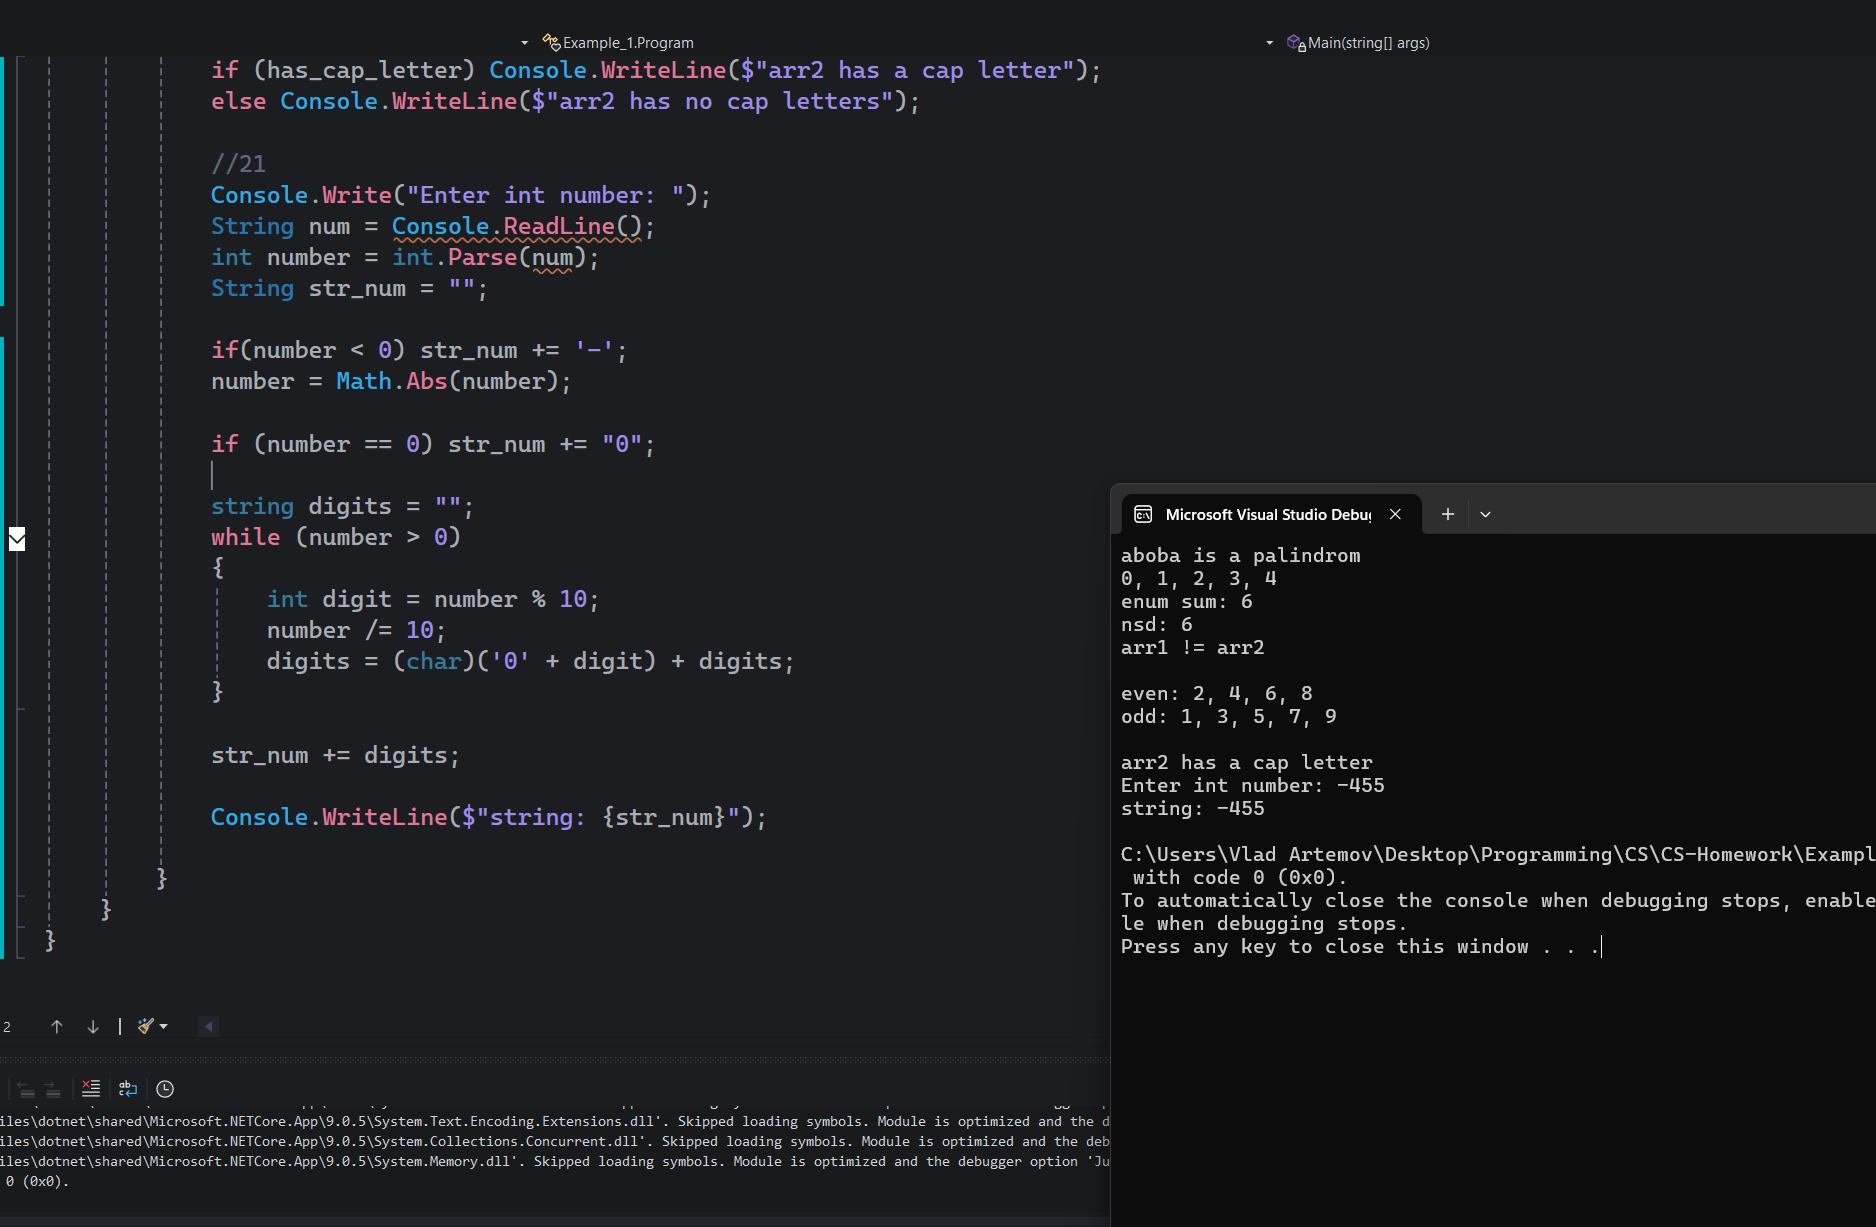
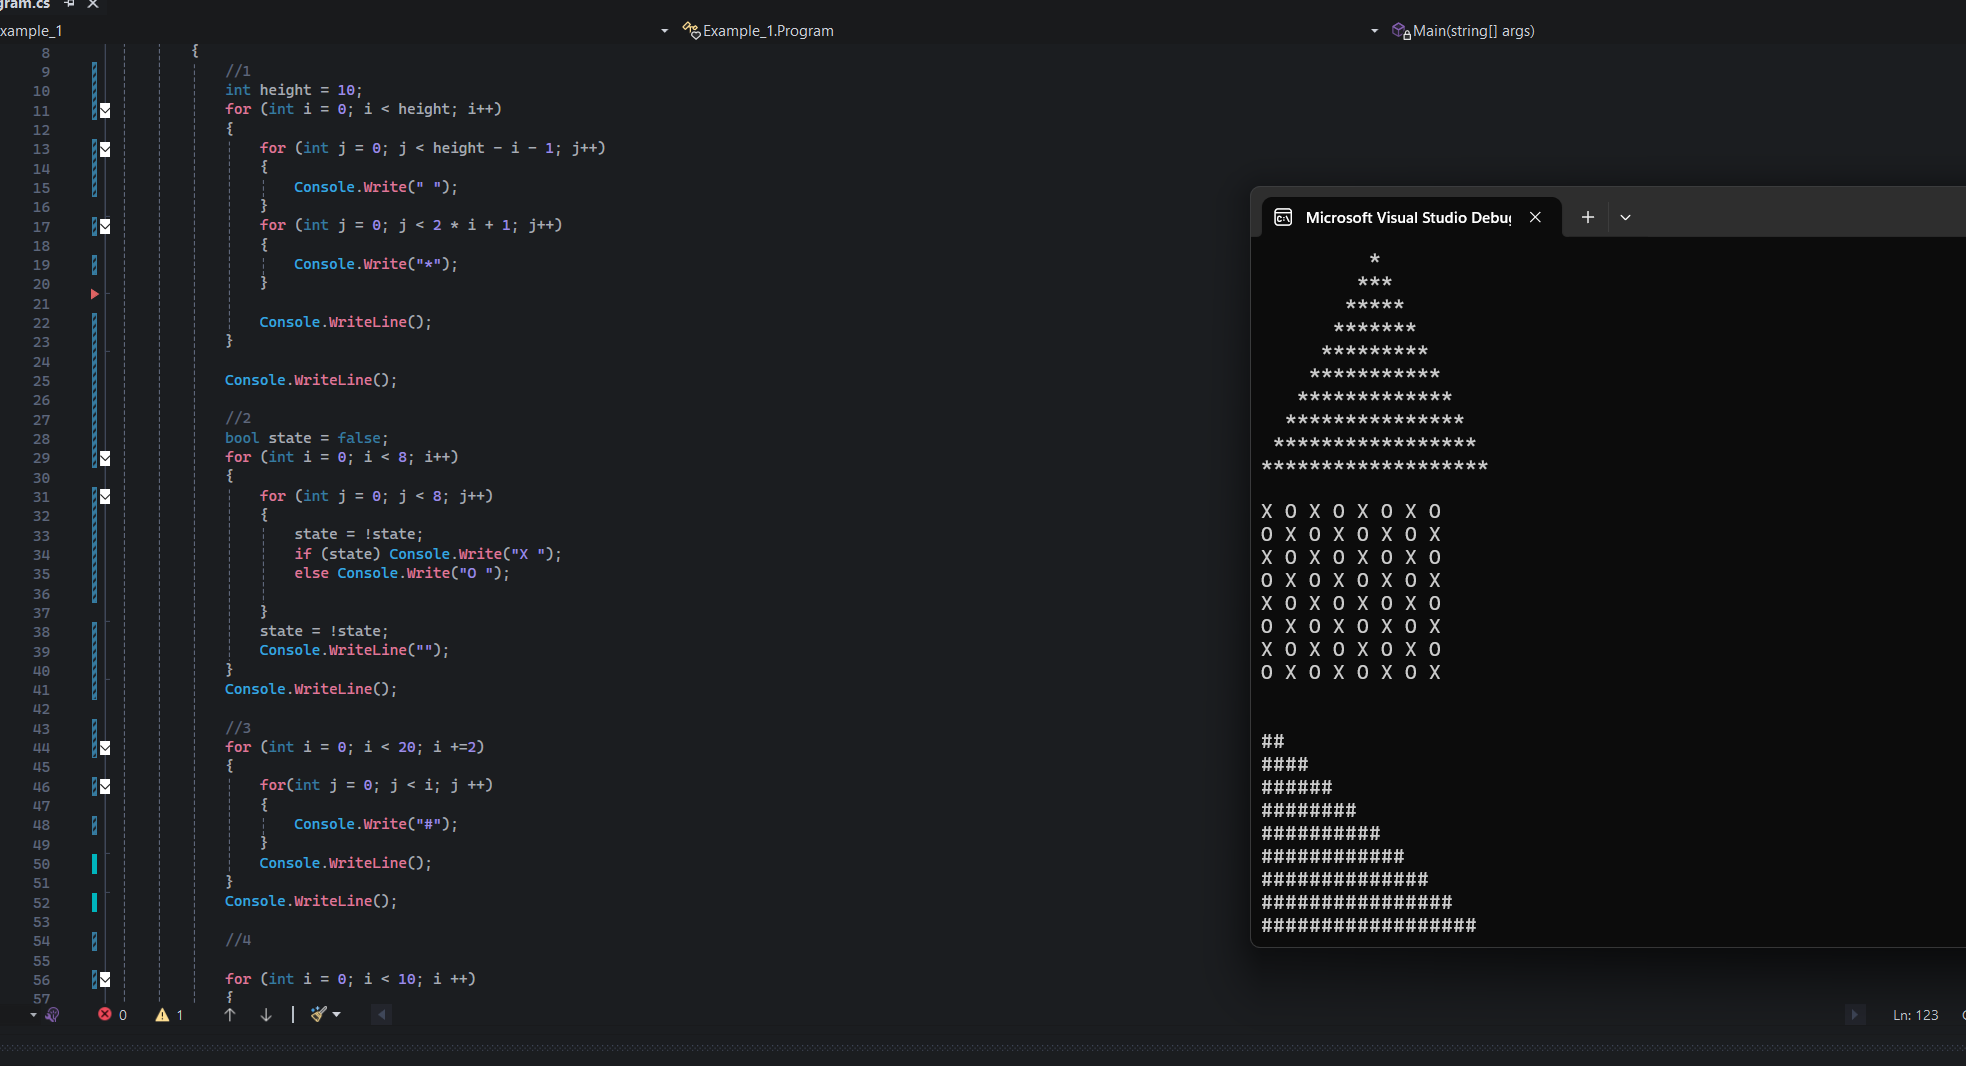
dthtdhxdftjftjfty

diff --git a/Example_1/Program.cs b/Example_1/Program.cs
@@ -1,118 +1,137 @@
 using System;
-using System.Linq;
 
 namespace Example_1
 {
-    enum EnUm
-    {
-        a = 1,
-        b = 2,
-        c = 3
-    }
     internal class Program
     {
         static void Main(string[] args)
         {
-            //14
-            String str = "aboba";
-            bool palindrom = true;
-            for (int i = 0; i < str.Length / 2; i++)
+            //1
+            int height = 10;
+            for (int i = 0; i < height; i++)
             {
-                if (str[i] != str[str.Length - i - 1])
-                    palindrom = false;
-            }
-            if (palindrom) Console.WriteLine($"{str} is a palindrom");
-            else Console.WriteLine($"{str} is NOT a palindrom");
-
-            //15
-            int[] arr = { 0, 1, 1, 2, 2, 3, 3, 4, 4 };
-            List<int> numbers = new List<int> { }; // вектор для c#
-            for (int i = 0; i < arr.Length; i++)
-            {
-                if (!numbers.Contains(arr[i]))
-                    numbers.Add(arr[i]);
-            }
-            arr = numbers.ToArray();
-            Console.WriteLine(string.Join(", ", arr));
-
-            //16
-            int sum = 0;
-            foreach (int val in Enum.GetValues(typeof(EnUm)))
-            {
-                sum += val;
-            }
-            Console.WriteLine($"enum sum: {sum}");
-            //17
-            int a = 6;
-            int b = 66;
-            int nsd = 0;
-
-            for (int i = Math.Min(a, b); i > 0; i--)
-            {
-                if (a % i == 0 && b % i == 0)
+                for (int j = 0; j < height - i - 1; j++)
                 {
-                    nsd = i;
-                    break;
+                    Console.Write(" ");
                 }
+                for (int j = 0; j < 2 * i + 1; j++)
+                {
+                    Console.Write("*");
+                }
+
+                Console.WriteLine();
             }
 
-            Console.WriteLine($"nsd: {nsd}");
-
-            //18
-            int[] arr1 = { 0, 1, 2, 3 };
-            int[] arr2 = { 0, 1, 2, -1 };
-            if(arr1.SequenceEqual(arr2)) Console.WriteLine($"arr1 == arr2");
-            else Console.WriteLine($"arr1 != arr2");
-
-            //19
-            int[] evenodd = {1, 2, 3, 4, 5, 6, 7, 8, 9 };
-            List<int> even = new List<int> { };
-            List<int> odd = new List<int> { };
-            for(int i = 0; i < evenodd.Length; i ++)
-            {
-                if (evenodd[i] % 2 == 0) even.Add(evenodd[i]);
-                else odd.Add(evenodd[i]);
-            }
-            Console.WriteLine();
-            Console.WriteLine($"even: {string.Join(", ", even)}");
-            Console.WriteLine($"odd: {string.Join(", ", odd)}");
             Console.WriteLine();
 
-            //20
-            String str2 = "hello this string has This word";
-            bool has_cap_letter = false;
-            for(int i = 0; i < str2.Length; i ++) {
-                if (char.IsUpper(str2[i]) && (i == 0 || str2[i - 1] == ' '))
+            //2
+            bool state = false;
+            for (int i = 0; i < 8; i++)
+            {
+                for (int j = 0; j < 8; j++)
                 {
-                    has_cap_letter = true;
-                    break;
+                    state = !state;
+                    if (state) Console.Write("X ");
+                    else Console.Write("O ");
+
+                }
+                state = !state;
+                Console.WriteLine("");
+            }
+            Console.WriteLine();
+
+            //3
+            for (int i = 0; i < 20; i +=2)
+            {
+                for(int j = 0; j < i; j ++)
+                {
+                    Console.Write("#");
+                }
+                Console.WriteLine();
+            }
+            Console.WriteLine();
+
+            //4
+
+            for (int i = 0; i < 10; i ++)
+            {
+                for (int j = 0; j < 10; j++)
+                {
+                    if(i == j || 10 - i == j + 1) Console.Write("+ ");
+                    else Console.Write("  ");
+                }
+                Console.WriteLine();
+            }
+            Console.WriteLine();
+
+            //5
+            /*
+            Random rnd = new Random();
+
+            while (true)
+            {
+                for (int i = 0; i < 100; i++)
+                {
+                    Console.WriteLine();
+                }
+                for (int i = 0; i < 30; i++)
+                {
+                    for (int j = 0; j < 30; j++)
+                    {
+                        if((j >= 15 && j <= 24 && i >= 12 && i <= 14) || (j == 25 && i == 13)) Console.Write("#");
+                        else if(rnd.Next(50) == 1) Console.Write("*");
+                        else Console.Write(" ");
+                    }
+                    Console.WriteLine();
                 }
             }
-            if (has_cap_letter) Console.WriteLine($"arr2 has a cap letter");
-            else Console.WriteLine($"arr2 has no cap letters");
+            */
 
-            //21
-            Console.Write("Enter int number: ");
-            String num = Console.ReadLine();
-            int number = int.Parse(num);
-            String str_num = "";
-
-            if(number < 0) str_num += '-';
-            number = Math.Abs(number);
-
-            if (number == 0) str_num += "0";
-
-            string digits = "";
-            while (number > 0)
+            //6
+            for (int i = 0; i < 10; i++)
             {
-                int digit = number % 10;
-                number /= 10;
-                digits = (char)('0' + digit) + digits;
+                for (int j = 0; j < 10; j++)
+                {
+                    if(j >= 3 && j <= 6 && i >= 3 && i <= 6) Console.Write("o ");
+                    else if (i == j || 10 - i == j + 1) Console.Write("x ");
+                    else Console.Write("  ");
+                }
+                Console.WriteLine();
             }
+            Console.WriteLine();
 
-            str_num += digits;
+            //7
+            /*Random rnd2 = new Random();
 
-            Console.WriteLine($"string: {str_num}");
+            while (true)
+            {
+                for (int i = 0; i < 100; i++)
+                {
+                    Console.WriteLine();
+                }
+                for (int i = 0; i < 30; i++)
+                {
+                    for (int j = 0; j < 30; j++)
+                    {
+                        if (rnd2.Next(50) == 1) Console.Write("|");
+                        else Console.Write(" ");
+                    }
+                    Console.WriteLine();
+                }
+            }*/
+
+            //8
+            Console.WriteLine("Enter height: ");
+            int height1 = int.Parse(Console.ReadLine());
+            for (int i = 0; i < height1 + 1; i++)
+            {
+                for (int j = 0; j < i; j++)
+                {
+                    Console.Write("^");
+                }
+                Console.WriteLine();
+            }
+            Console.WriteLine();
 
         }
     }
